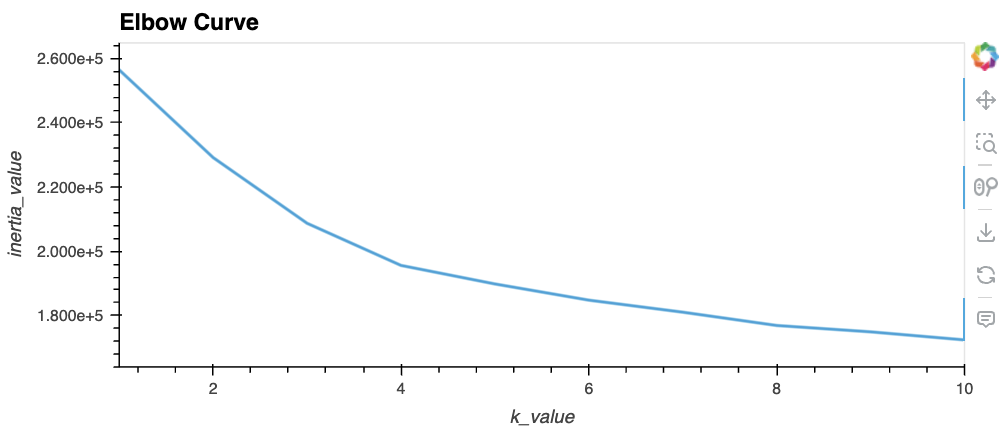
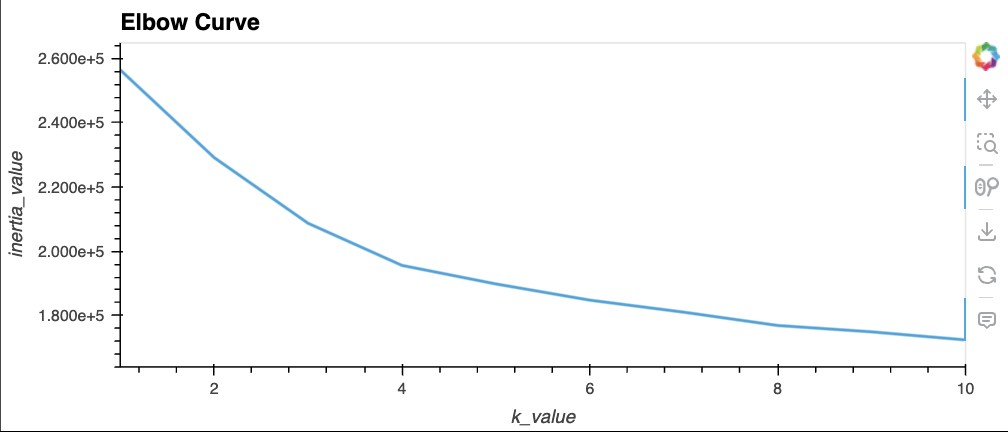
finally have the plots showing up correctly

diff --git a/README.md b/README.md
@@ -39,11 +39,11 @@ In order to convert the descriptions to vectors using Word2Vec, the description 
 
 * TSNE was used for dimensionality reduction
 
-![tsne](./Outputs/tsne_plot.png)
+![TSNE](./Outputs/TSNE_plot.png)
 
 * K Means - An elbow curve was used to determine 4 clusters should be used. Then a plot was formed with the clusters. 
 
-![k_elbow](./Outputs/kmeans_elbow.png)
+![kmeans_elbow](./Outputs/kmeans_elbow.png)
 
 ![kmeans](./Outputs/kmeans_plot.png)
 
